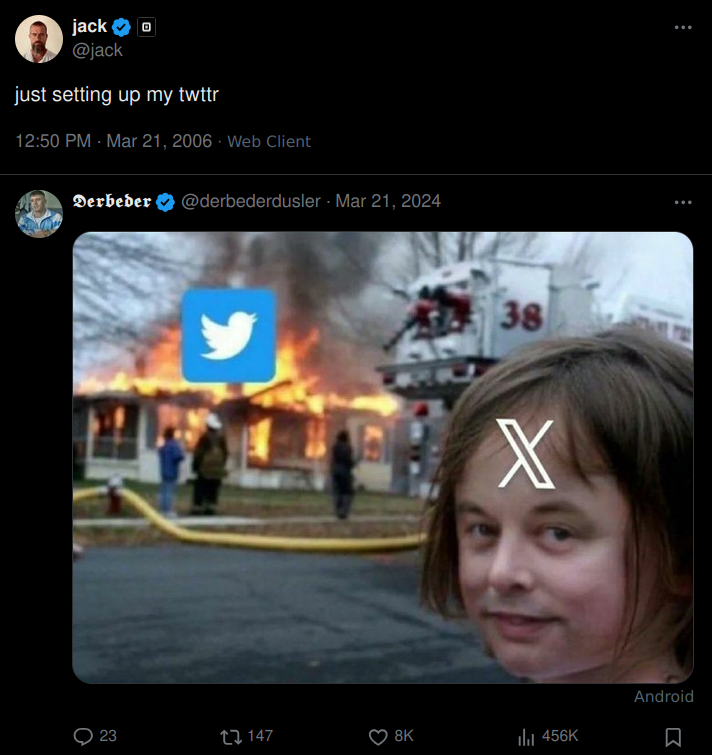
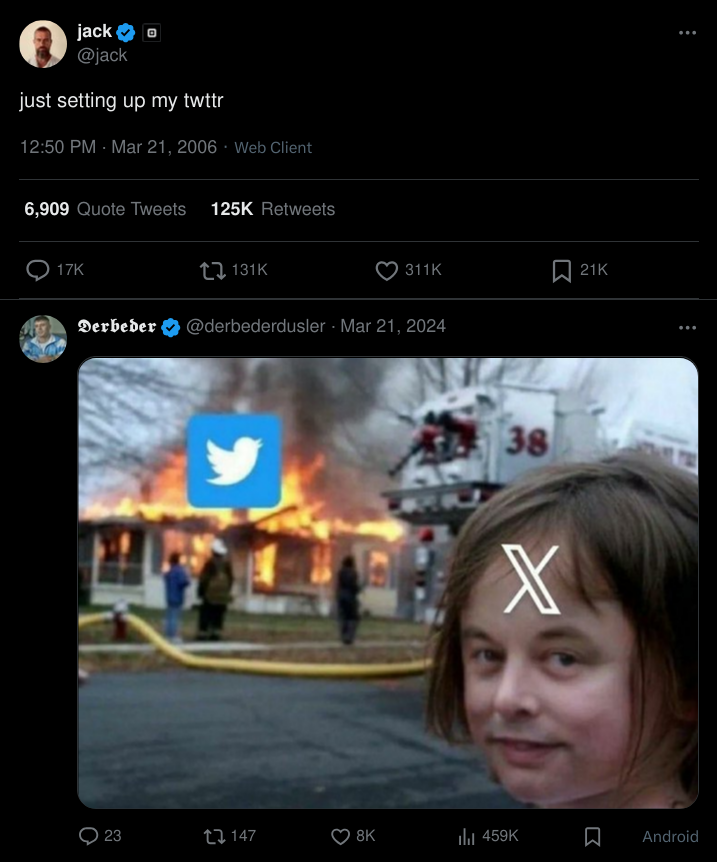
fix spacing

diff --git a/twitter-source-label.js b/twitter-source-label.js
@@ -1,7 +1,7 @@
 // ==UserScript==
 // @name         Twitter / X.com Source Label Restorer
 // @namespace    https://github.com/cmj
-// @version      2.5
+// @version      2.6
 // @description  Restore Android, Web, iPhone, TweetDeck, etc. source labels on X.
 // @match        https://x.com/*
 // @match        https://twitter.com/*
@@ -45,6 +45,21 @@ if (UNREGISTER_SERVICE_WORKER && navigator.serviceWorker?.getRegistrations) {
         };
     }
 }
+
+const GAP_STYLE_ID = "source-restorer-gap-style";
+
+function injectGapOverride() {
+    if (document.getElementById(GAP_STYLE_ID)) {
+        return;
+    }
+    const style = document.createElement("style");
+    style.id = GAP_STYLE_ID;
+    style.textContent =
+        'article[data-testid="tweet"] [role="group"].r-1kbdv8c { column-gap: 24px; }';
+    (document.head || document.documentElement).appendChild(style);
+}
+
+injectGapOverride();
 
 const tweetSources = new Map();
 
